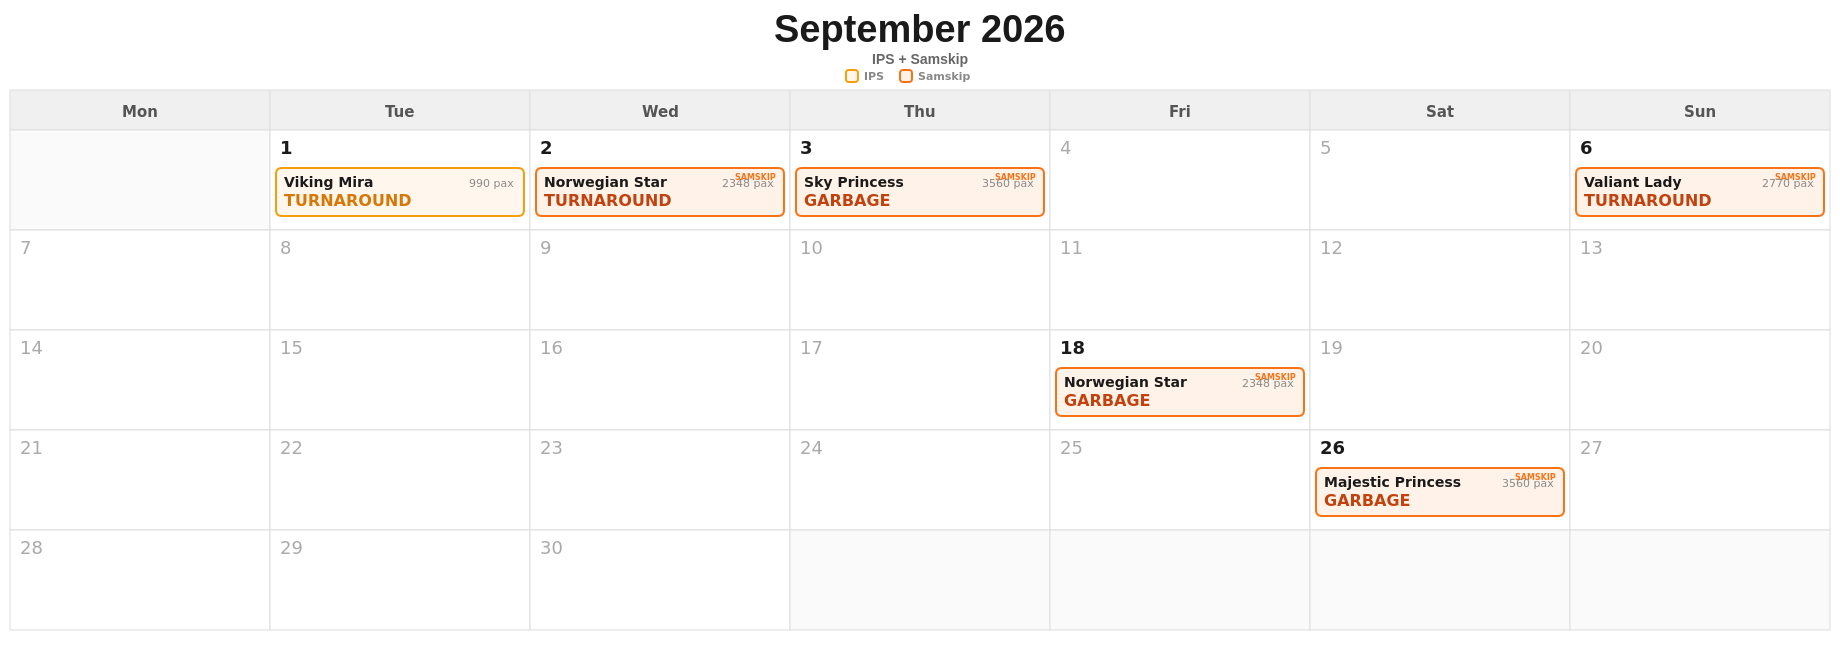
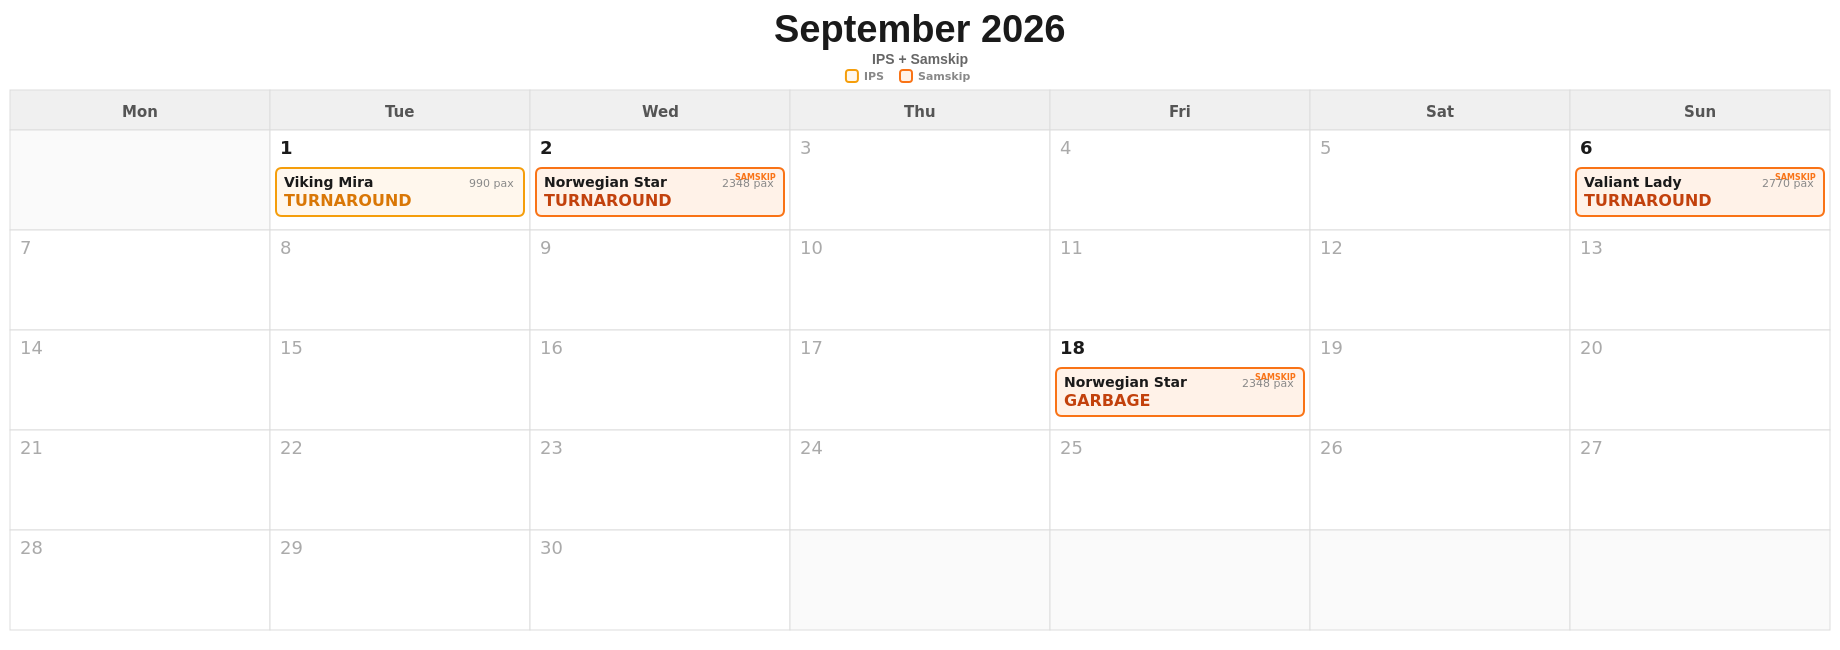
Move Princess from Samskip prospect group to other
Princess is no longer a Samskip prospect line. Removed from
PROSPECT_GROUPS.samskip in constants.js and from SAMSKIP_LINES
in the calendar generator. Regenerated all calendar PNGs.

https://claude.ai/code/session_018JAJHmLz4DqfJWBPK7iJv1

Changed region(s): [[0.7125, 0.6769, 0.8674, 0.8], [0.4337, 0.2462, 0.4957, 0.3385], [0.5266, 0.2462, 0.5886, 0.3077]]

diff --git a/src/constants.js b/src/constants.js
@@ -277,7 +277,7 @@ export const PROSPECT_GROUPS = {
   samskip: {
     label: "Samskip",
     color: SAMSKIP_COLOR,
-    lines: ["Oceania", "Norwegian Cruise Line", "Regent", "Carnival", "Peace Boat", "Princess", "Virgin"],
+    lines: ["Oceania", "Norwegian Cruise Line", "Regent", "Carnival", "Peace Boat", "Virgin"],
   },
 };
 
